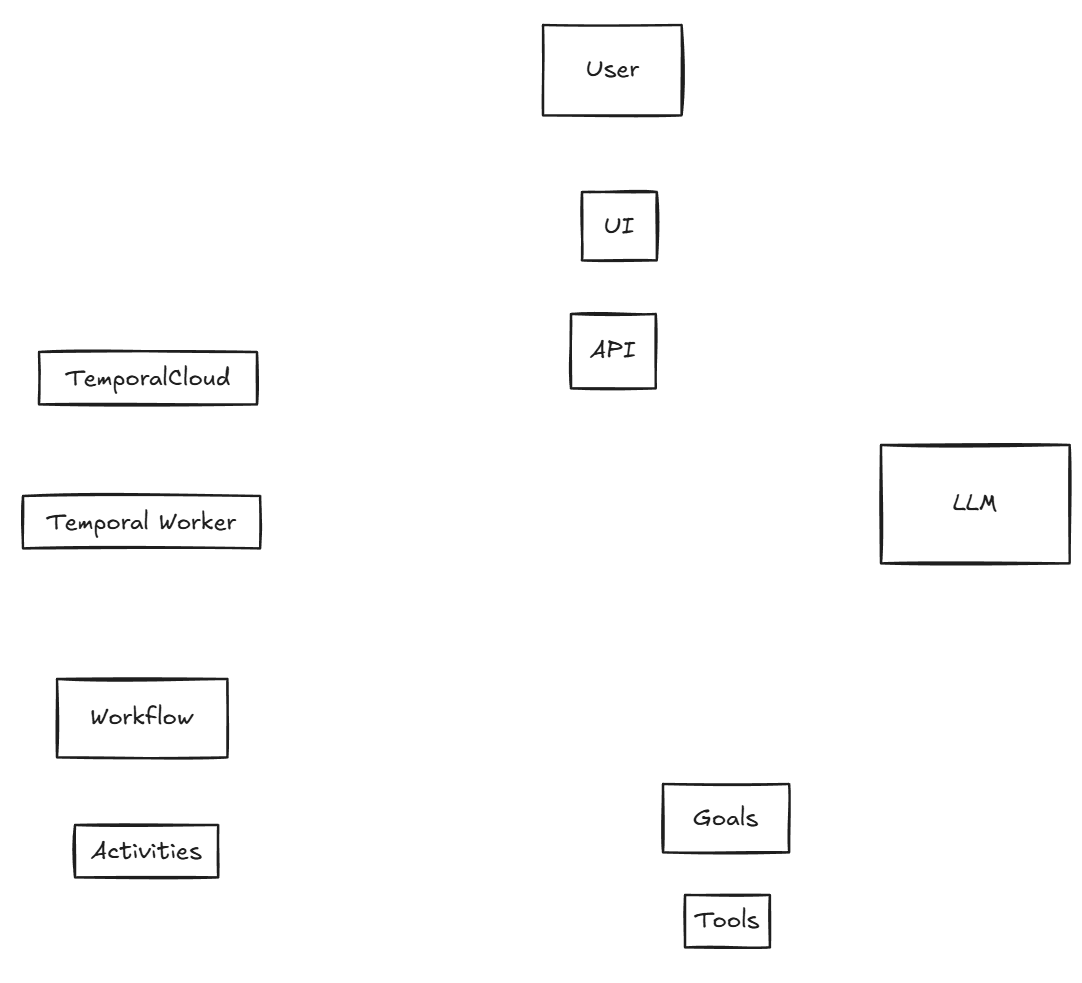
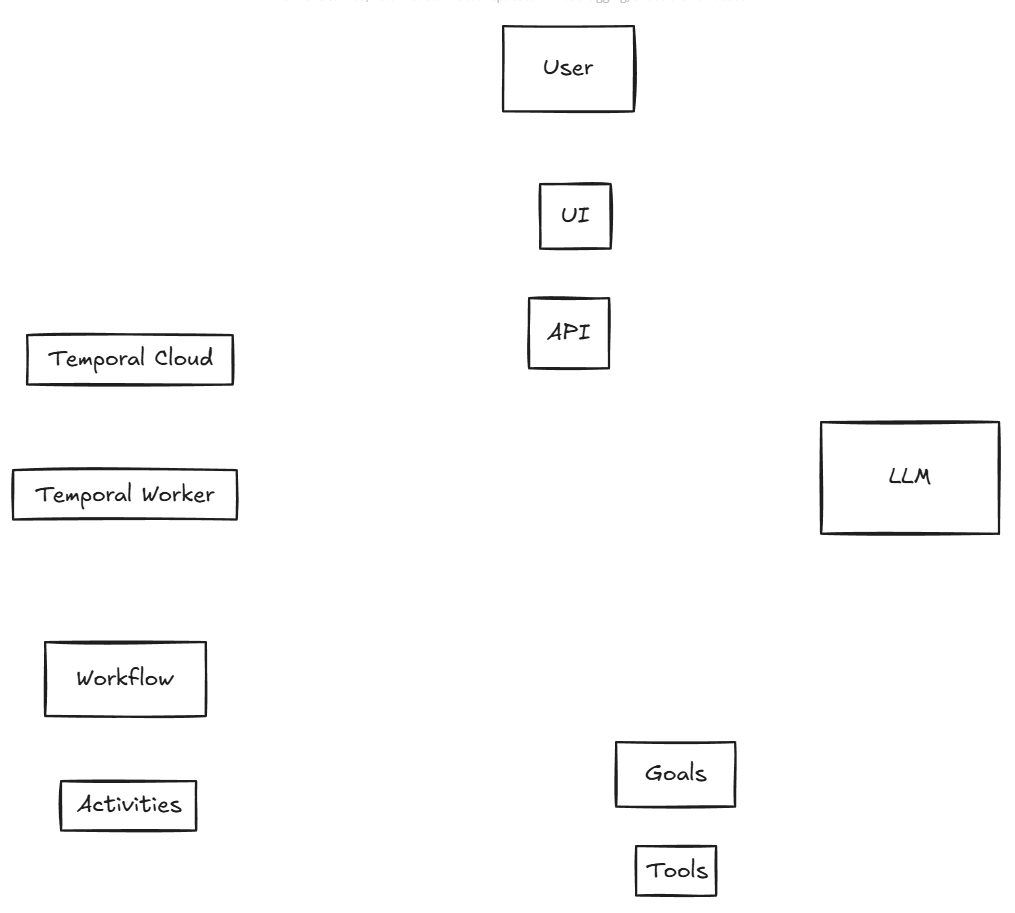
- updates to pyproject.toml to add contributors and update some pytest config - updates to documentation - clarification cleanup - defaulting to finserv goals

diff --git a/architecture.md b/architecture.md
@@ -1,58 +1,65 @@
 # Elements
-These are the main elements of this system. 
-![Architecture Elements](./assets/Architecture_elements.png "Architecture Elements")
+These are the main elements of this system. See [architecture decisions](./architecture-decisions.md) for information beind these choices.
+In this document we will explain each element and their interactions, and then connect them all at the end.
+<img src="./assets/Architecture_elements.png" width="50%" alt="Architecture Elements">
 
 ## Workflow 
-This is a [Temporal Workflow](https://docs.temporal.io/workflows) - a durable straightforward description of the process to be executed. For our example see [agent_goal_workflow.py](./workflows/agent_goal_workflow.py).
+This is a [Temporal Workflow](https://docs.temporal.io/workflows) - a durable straightforward description of the process to be executed. See [agent_goal_workflow.py](./workflows/agent_goal_workflow.py).
 Temporal is used to make the process scalable, durable, reliable, secure, and visible.
 
 ### Workflow Responsibilities:
-- Orchestrates interactive loop
-- Prompts LLM, Users
+- Orchestrates interactive loops:
+    - LLM Loop: Prompts LLM, durably executes LLM, stores responses
+    - Interactive Loop: Elicits responses from input (in our case a human) and validates input responses
+    - Tool Execution Loop: Durably executes Tools
 - Keeps record of all interactions ([Signals, Queries, Updates](https://docs.temporal.io/develop/python/message-passing))
-- Executes LLM durably
-- Executes Tools durably
 - Handles failures gracefully
-- Human, LLM and tool interaction history stored for debugging and analysis
+- Input, LLM and Tool interaction history stored for debugging and analysis
 
 ## Activities
 These are [Temporal Activities](https://docs.temporal.io/activities). Defined as simple functions, they are auto-retried async/event driven behind the scenes. Activities durably execute Tools and the LLM. See [a sample activity](./activities/tool_activities.py).
 
 ## Tools 
-Tools define the capabilities of the system. They are simple Python functions (could be in any language).
-They are executed by Temporal Activities. They are “just code” - can connect to any API or system. They also are where the "hard" business logic is: you can validate and retry actions using code you write.
+Tools define the capabilities of the system. They are simple Python functions (could be in any language as Temporal supports multiple languages).
+They are executed by Temporal Activities. They are “just code” - can connect to any API or system. They also are where the deterministic business logic is: you can validate and retry actions using code you write.
 Failures are handled gracefully by Temporal.
 
 Activities + Tools turn the probabalistic input from the user and LLM into deterministic action.
 
 ## Prompts
-Prompts are where the instructions to the LLM & users is. Prompts are made up of initial instructions, goal instructions, and tool instructions. 
+Prompts are where the instructions to the LLM are. Prompts are made up of initial instructions, goal instructions, and tool instructions. 
 See [agent prompts](./prompts/agent_prompt_generators.py) and [goal & tool prompts](./tools/goal_registry.py). 
 
-This is where you can add probabalistic business logic, to control process flow, describe what to do, and give instruction and validation for the LLM.
+This is where you can add probabalistic business logic to
+- to control process flow
+- describe what to do
+- give examples of interactions
+- give instruction and validation for the LLM
 
 ## LLM
 Probabalistic execution: it will _probably_ do what you tell it to do.
 Turns the guidance from the prompts (see [agent prompts](./prompts/agent_prompt_generators.py) and [goal prompts](./tools/goal_registry.py)) into 
 You have a choice of providers - see [setup](./setup.md). 
 The LLM:
-- Validates user input for tools
-- Drives toward goal selected by user
-- Decides when to execute tools
-- Formats input and interprets output for tools
+- Drives toward the initial Goal and any subsequent Goals selected by user
+- Decides what to do based on input, such as:
+    - Validates user input for Tools
+    - Decides when to execute Tools
+    - Decides on next step for Goal
+- Formats input and interprets output for Tools
 - is executed by Temporal Activities
     - API failures and logical failures are handled transparently
 
 ## Interaction
 Interaction is managed with Temporal Signals and Queries. These are durably stored in Workflow History. 
-Can be used for analysis and debugging. It's all “just code” so it's easy to add new Signals and Queries. 
+History can be used for analysis and debugging. It's all “just code” so it's easy to add new Signals and Queries. 
 Input can be very dynamic, just needs to be serializable.
 
-The workflow executes in a loop: gathering input, validating input, executing tools, managing prompts, and then waiting for input.
+The Workflow executes the Interaction Loop: gathering input, validating input, and providing a response:
 
 ![Interaction Loop](./assets/interaction_loop.png)
 
-Here's a more detailed example for gathering parameters for tools:
+Here's a more detailed example for gathering inputs for Tools:
 
 ![Tool Gathering](./assets/argument_gathering_cycle.png)
 
@@ -64,4 +71,4 @@ Now that we have the pieces and what they do, here is a more complete diagram of
 
 
 # Adding features
-Want to add more tools, See [adding goals and tools](./adding-goals-and-tools.md).
+Want to add more Goals and Tools? See [adding goals and tools](./adding-goals-and-tools.md). Have fun!

diff --git a/README.md b/README.md
@@ -8,19 +8,22 @@ It's really helpful to [watch the demo (5 minute YouTube video)](https://www.you
 
 [![Watch the demo](./assets/agent-youtube-screenshot.jpeg)](https://www.youtube.com/watch?v=GEXllEH2XiQ)
 
+### Multi-Agent Demo Video
+See multi-agent execution in action [here](https://www.youtube.com/watch?v=8Dc_0dC14yY).
+
 ## Why Temporal?
 There are a lot of AI and Agentic AI tools out there, and more on the way. But why Temporal? Temporal gives this system reliablity, state management, a code-first approach that we really like, built-in observability and easy error handling.
 For more, check out [architecture-decisions](./architecture-decisions.md).
 
 ## What is "Agentic AI"?
 These are the key elements of an agentic framework:
-1. Goals a human can get done, made up of tools that can execute individual steps
-2. The "agent loop" - call LLM, either call tools or prompt human, repeat until goal(s) are done
-3. Support for tool calls that require human input and approval
+1. Goals that a system can accomplish, made up of tools that can execute individual steps
+2. Agent loops - executing an LLM, executing tools, and eliciting input from an external source such as a human: repeat until goal(s) are done
+3. Support for tool calls that require input and approval
 4. Use of an LLM to check human input for relevance before calling the 'real' LLM
-5. use of an LLM to summarize and compact the conversation history
-6. Prompt construction (made of system prompts, conversation history, and tool metadata - sent to the LLM to create user prompts)
-7. Bonus: durable tool execution via Temporal Activities
+5. Use of an LLM to summarize and compact the conversation history
+6. Prompt construction made of system prompts, conversation history, and tool metadata - sent to the LLM to create user questions and confirmations
+7. Ideally high durability (done in this system with Temporal Workflow and Activities)
 
 For a deeper dive into this, check out the [architecture guide](./architecture.md).
 
@@ -35,8 +38,7 @@ See [the architecture guide](./architecture.md).
 
 ## Productionalization & Adding Features
 - In a prod setting, I would need to ensure that payload data is stored separately (e.g. in S3 or a noSQL db - the claim-check pattern), or otherwise 'garbage collected'. Without these techniques, long conversations will fill up the workflow's conversation history, and start to breach Temporal event history payload limits.
-- A single worker can easily support many workflows - setting workflow ID differently would enable this.
-- Continue-as-new shouldn't be a big consideration for this use case (as it would take many conversational turns to trigger). Regardless, we should verify that it's able to carry the agent state over to the new workflow execution.
+- A single worker can easily support many agent workflows (chats) running at the same time. Currently the workflow ID is the same each time, so it will only run one agent at a time. To run multiple agents, you can use a different workflow ID each time (e.g. by using a UUID or timestamp).
 - Perhaps the UI should show when the LLM response is being retried (i.e. activity retry attempt because the LLM provided bad output)
 - Tests would be nice! [See tests](./tests/).
 
@@ -45,7 +47,7 @@ See [the todo](./todo.md) for more details.
 
 See [the guide to adding goals and tools](./adding-goals-and-tools.md) for more ways you can add features.
 
-## For Temporal SAs
-Check out the [slides](https://docs.google.com/presentation/d/1wUFY4v17vrtv8llreKEBDPLRtZte3FixxBUn0uWy5NU/edit#slide=id.g3333e5deaa9_0_0) here and the enablement guide here (TODO).
+## Enablement Guide (internal resource for Temporal employees)
+Check out the [slides](https://docs.google.com/presentation/d/1wUFY4v17vrtv8llreKEBDPLRtZte3FixxBUn0uWy5NU/edit#slide=id.g3333e5deaa9_0_0) here and the [enablement guide](https://docs.google.com/document/d/14E0cEOibUAgHPBqConbWXgPUBY0Oxrnt6_AImdiheW4/edit?tab=t.0#heading=h.ajnq2v3xqbu1).
 
 

diff --git a/setup.md b/setup.md
@@ -18,7 +18,7 @@ SHOW_CONFIRM=True
 
 The agent can be configured to pursue different goals using the `AGENT_GOAL` environment variable in your `.env` file. If unset, default is `goal_choose_agent_type`. 
 
-If the first goal is `goal_choose_agent_type` the agent will support multiple goals using goal categories defined by `GOAL_CATEGORIES` in your .env file. If unset, default is all.
+If the first goal is `goal_choose_agent_type` the agent will support multiple goals using goal categories defined by `GOAL_CATEGORIES` in your .env file. If unset, default is all. We recommend starting with `fin`.
 ```bash
 GOAL_CATEGORIES=hr,travel-flights,travel-trains,fin
 ```
@@ -206,7 +206,6 @@ By default it will _not_ make a real workflow, it'll just fake it. If you get th
 FIN_START_REAL_WORKFLOW=FALSE #set this to true to start a real workflow
 ```
 
-
 #### Goals: HR/PTO
 Make sure you have the mock users you want in (such as yourself) in [the PTO mock data file](./tools/data/employee_pto_data.json).
 
@@ -221,3 +220,15 @@ Make sure you have the mock orders you want in (such as those with real tracking
 - Note the mapping in `tools/__init__.py` to each tool
 
 For more details, check out [adding goals and tools guide](./adding-goals-and-tools.md).
+
+## Setup Checklist
+[  ] copy `.env.example` to `.env` <br />
+[  ] Select an LLM and add your API key to `.env` <br />
+[  ] (Optional) set your starting goal and goal category in  `.env` <br />
+[  ] (Optional) configure your Temporal Cloud settings in  `.env` <br />
+[  ] `poetry run python scripts/run_worker.py` <br />
+[  ] `poetry run uvicorn api.main:app --reload` <br />
+[  ] `cd frontend`, `npm install`, `npx vite` <br />
+[ ] Access the UI at `http://localhost:5173` <br />
+
+And that's it! Happy AI Agent Exploring!

diff --git a/adding-goals-and-tools.md b/adding-goals-and-tools.md
@@ -1,5 +1,6 @@
 # Customizing the Agent
-The agent is set up to allow for multiple goals and to switch back to choosing a new goal at the end of every successful goal. A goal is made up of a list of tools that the agent will guide the user through. 
+The agent is set up to have multiple agents, each with their own goal. It supports switching back to choosing a new goal at the end of every successful goal (or even mid-goal). 
+A goal is made up of a list of tools that the agent will guide the user through. 
 
 It may be helpful to review the [architecture](./architecture.md) for a guide and definition of goals, tools, etc.
 
